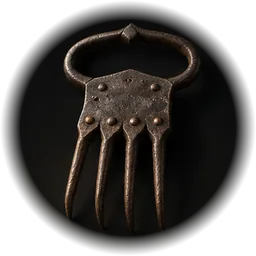
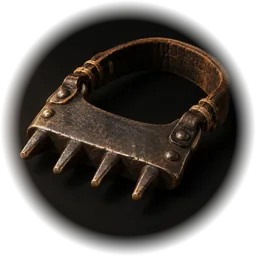
Shinobi: új kép a tekkóhoz a felszerelés-választóban
Claude-Session: https://claude.ai/code/session_01YJAgnfThTuPxDD6QNa5h9R

Changed region(s): [[0.0625, 0.0938, 0.9062, 0.875]]

diff --git a/arnyekerdo/sw.js b/arnyekerdo/sw.js
@@ -2,7 +2,7 @@
 // Generált fájl (build), a CACHE neve minden kiadásnál változik, ilyenkor a régi tár törlődik.
 // Az oldal mindig a netről töltődik, ha van net (így mindig a legújabb változat jön), egyébként a tárból.
 // A többi fájl (three.js, betűk, képek, hangok) a tárból jön, és a háttérben frissül.
-const CACHE = 'shinobi-36e5b1a9e2';
+const CACHE = 'shinobi-84ab8703cb';
 const PRE = ["./", "index.html", "three.min.js", "manifest.webmanifest", "favicon-32.png", "icon-180.png", "icon-192.png", "icon-512.png", "icon-512-maskable.png", "nyitokep.jpg", "nyitokep-kicsi.jpg", "fonts/eb-garamond-latin-500-normal.woff2", "fonts/eb-garamond-latin-700-normal.woff2", "fonts/eb-garamond-latin-ext-500-normal.woff2", "fonts/eb-garamond-latin-ext-700-normal.woff2", "fonts/ibm-plex-sans-latin-400-normal.woff2", "fonts/ibm-plex-sans-latin-500-normal.woff2", "fonts/ibm-plex-sans-latin-600-normal.woff2", "fonts/ibm-plex-sans-latin-ext-400-normal.woff2", "fonts/ibm-plex-sans-latin-ext-500-normal.woff2", "fonts/ibm-plex-sans-latin-ext-600-normal.woff2", "hang/b-008780a3.mp3", "hang/b-3168fe8b.mp3", "hang/b-4b8b509b.mp3", "hang/b-66db7e7d.mp3", "hang/b-778fb87d.mp3", "hang/b-954e42d8.mp3", "hang/b-a189d411.mp3", "hang/b-ac2f8cc2.mp3", "hang/f-15d8e9c4.mp3", "hang/f-167dec5b.mp3", "hang/f-246c0fc6.mp3", "hang/f-293818e6.mp3", "hang/f-2a404f4e.mp3", "hang/f-2df255bb.mp3", "hang/f-2f3dd29d.mp3", "hang/f-316f48e1.mp3", "hang/f-32a31ef4.mp3", "hang/f-52b06f88.mp3", "hang/f-52e74d16.mp3", "hang/f-61ac67d5.mp3", "hang/f-6a9bbb33.mp3", "hang/f-6bb3c922.mp3", "hang/f-6e0b6d98.mp3", "hang/f-72179605.mp3", "hang/f-7b2a749a.mp3", "hang/f-8c17e3c0.mp3", "hang/f-8ca80931.mp3", "hang/f-9c1877c6.mp3", "hang/f-9c531983.mp3", "hang/f-a4417321.mp3", "hang/f-a85a88fe.mp3", "hang/f-b44cd20a.mp3", "hang/f-bccaaf99.mp3", "hang/f-c89292e3.mp3", "hang/f-e09f4255.mp3", "hang/f-e54b3755.mp3", "hang/f-e964986e.mp3", "hang/f-f6a08648.mp3", "hang/f-f889a47b.mp3", "hang/f-fa9371bd.mp3", "hang/f-fcdc2d86.mp3", "hang/f-fd4a1404.mp3", "hang/g-15d8e9c4.mp3", "hang/g-167dec5b.mp3", "hang/g-246c0fc6.mp3", "hang/g-293818e6.mp3", "hang/g-2a404f4e.mp3", "hang/g-2df255bb.mp3", "hang/g-32a31ef4.mp3", "hang/g-52e74d16.mp3", "hang/g-61ac67d5.mp3", "hang/g-6a9bbb33.mp3", "hang/g-6bb3c922.mp3", "hang/g-6e0b6d98.mp3", "hang/g-72179605.mp3", "hang/g-7b2a749a.mp3", "hang/g-8c17e3c0.mp3", "hang/g-8ca80931.mp3", "hang/g-9c531983.mp3", "hang/g-a4417321.mp3", "hang/g-b44cd20a.mp3", "hang/g-bccaaf99.mp3", "hang/g-e09f4255.mp3", "hang/g-e54b3755.mp3", "hang/g-f6a08648.mp3", "hang/g-f889a47b.mp3", "hang/g-fcdc2d86.mp3", "hang/g-fd4a1404.mp3", "hang/m-11d979fe.mp3", "hang/m-121c390e.mp3", "hang/m-18c5e140.mp3", "hang/m-259273bb.mp3", "hang/m-263865ce.mp3", "hang/m-2fca2a3e.mp3", "hang/m-30410177.mp3", "hang/m-487733da.mp3", "hang/m-59fa12ee.mp3", "hang/m-661db476.mp3", "hang/m-68702ec0.mp3", "hang/m-6e0c61de.mp3", "hang/m-6e4276d6.mp3", "hang/m-714d0d5e.mp3", "hang/m-778fb87d.mp3", "hang/m-7c001bac.mp3", "hang/m-7d497e4a.mp3", "hang/m-889a0442.mp3", "hang/m-980b9933.mp3", "hang/m-9fad3041.mp3", "hang/m-a15ac05a.mp3", "hang/m-a1ad49c1.mp3", "hang/m-ade887b8.mp3", "hang/m-d2785c68.mp3", "hang/m-d402cdee.mp3", "hang/m-d8963559.mp3", "hang/m-ddd1b57e.mp3", "hang/m-e80cd9cc.mp3", "hang/m-ed55b7f5.mp3", "hang/m-ee2bcdf6.mp3", "hang/m-f065d53c.mp3", "felszereles.jpg", "eszkozok/fukiya.webp", "eszkozok/fust.webp", "eszkozok/kampo.webp", "eszkozok/karom.webp", "eszkozok/kavics.webp", "eszkozok/shuriken.webp", "eszkozok/tanto.webp", "eszkozok/tekko.webp", "eszkozok/tuske.webp"];
 self.addEventListener('install', (e) => {
   e.waitUntil(caches.open(CACHE).then((c) => Promise.all(PRE.map((u) => c.add(new Request(u, { cache: 'reload' })).catch(() => {})))).then(() => self.skipWaiting()));
